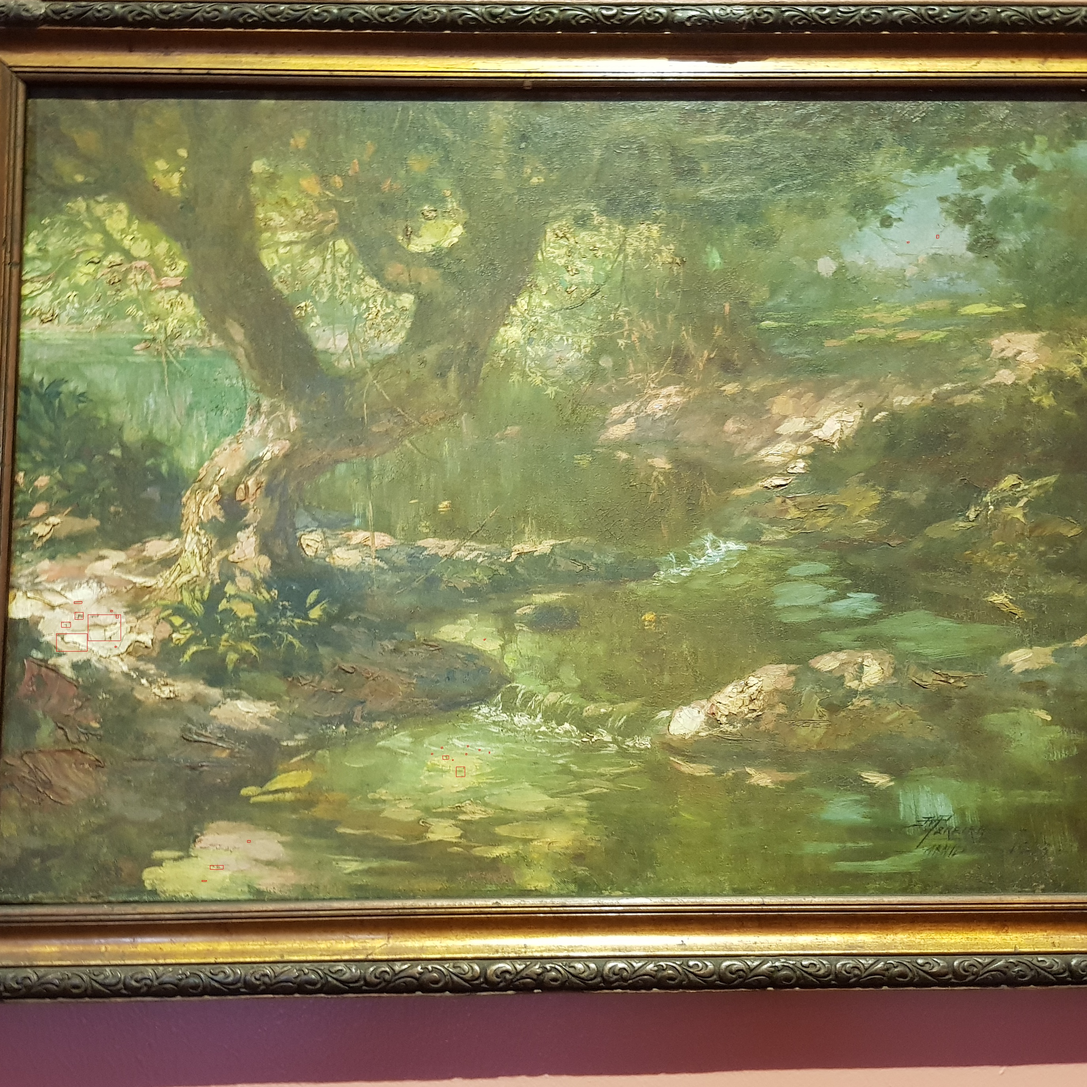
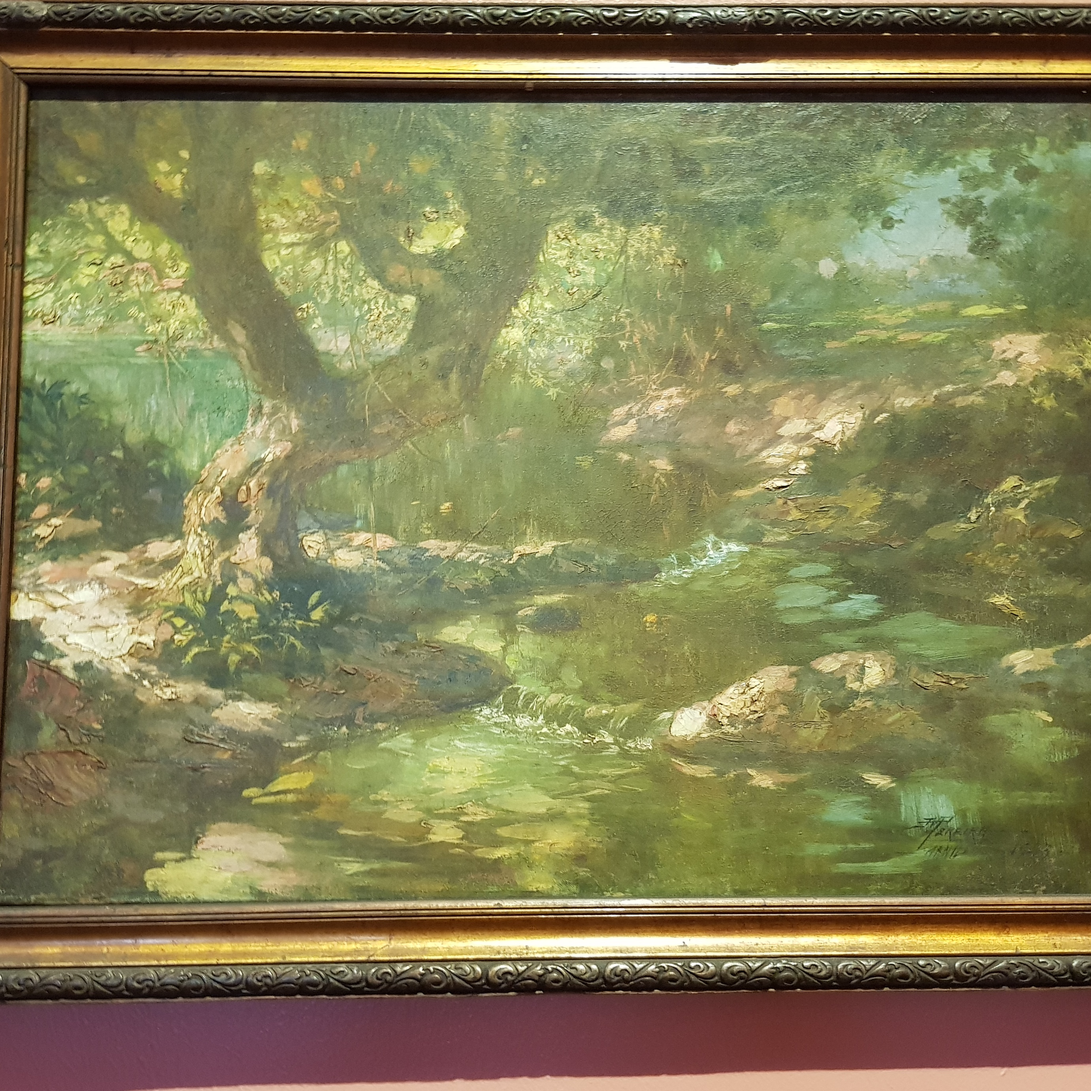
Seems to be working on vertical & horizontal pictures (painting crop), check for other instances

diff --git a/cropping.py b/cropping.py
@@ -26,30 +26,17 @@ def dilation(dilation_size, src):
 
 def cropImage(name):
 	image = cv2.imread(name, 0)
-	width, height = image.shape[:2]
-
+	w, h= image.shape
 	_, src = cv2.threshold(image, 170, 255, cv2.THRESH_BINARY_INV)
 	dilate = dilation(10,src)
-	erode = erosion(9,dilate)
+	cv2.imwrite("edges.jpg", dilate)
+
+	# erode = erosion(10,dilate)
 	colored = cv2.imread(name, 1)
 	untouched = cv2.imread(name, 1)
 
-	ret, labels, stats, centroids = cv2.connectedComponentsWithStats(erode, 8) 
-
-	i = 1
-	while(i<ret):
-		colored[stats[i][cv2.CC_STAT_TOP]:stats[i][cv2.CC_STAT_HEIGHT] + stats[i][cv2.CC_STAT_TOP],[stats[i][cv2.CC_STAT_LEFT]]] = [0,0,255] # left
-		colored[[stats[i][cv2.CC_STAT_TOP]], stats[i][cv2.CC_STAT_LEFT]:stats[i][cv2.CC_STAT_LEFT] + stats[i][cv2.CC_STAT_WIDTH]] = [0,0,255] # top
-		colored[stats[i][cv2.CC_STAT_TOP] + stats[i][cv2.CC_STAT_HEIGHT], stats[i][cv2.CC_STAT_LEFT] : stats[i][cv2.CC_STAT_LEFT] + stats[i][cv2.CC_STAT_WIDTH]] = [0,0,255]
-		colored[stats[i][cv2.CC_STAT_TOP] : stats[i][cv2.CC_STAT_TOP] + stats[i][cv2.CC_STAT_HEIGHT], stats[i][cv2.CC_STAT_LEFT] + stats[i][cv2.CC_STAT_WIDTH]] = [0,0,255]
-		i = i + 1
-
-#43 & 44 fuck up when pic is vertical
-	cv2.imshow("c", colored)
-	cv2.imshow("d", colored)
 	threshold = 180
-	edges = cv2.Canny(erode, threshold, 2*threshold, 3)
-	result, contours, hierarchy = cv2.findContours(edges, cv2.RETR_TREE, cv2.CHAIN_APPROX_NONE)
+	result, contours, hierarchy = cv2.findContours(dilate, cv2.RETR_TREE, cv2.CHAIN_APPROX_NONE)
 
 	maxArea = -1
 	for i in range(len(contours)):
@@ -57,14 +44,19 @@ def cropImage(name):
 			maxArea = cv2.contourArea(contours[i])
 			peri = cv2.arcLength(contours[i], True)
 			rect = cv2.approxPolyDP(contours[i], 0.0667 * peri, True)
-			if len(rect) == 4:
-				color = (255,255,255)
-				untouched = cv2.drawContours(untouched, [contours[i]], -1, color ,3)
+			color = (255,0,0)
+			untouched = cv2.drawContours(untouched, [contours[i]], -1, color ,3)
+	cv2.imwrite("colored.jpg", untouched)
 
 	coordinates = findCoordinates(rect)
 	cropped = colored[coordinates[0]:coordinates[1], coordinates[2]:coordinates[3]]
 	return cropped
 	
+def check(height, width, coords):
+	checked = coords
+	if(coords == height or coords == width):
+		checked = coords - 1
+	return checked
 def cropSquareImage(croppedPainting):
 	width, height = croppedPainting.shape[:2]
 	if(width>height): 
@@ -79,9 +71,6 @@ def cropSquareImage(croppedPainting):
 	width, height = square.shape[:2]
 
 	cv2.imwrite("square.jpg", square)
-	
-	#can be off by 1 px (the ratio)
-	#essentially current square = ... is assuming that the bigger is width, so need to be more dynamic to size
 
 painting = cropImage("try.jpg")
 cropSquareImage(painting)
@@ -90,3 +79,5 @@ cv2.imwrite(img_name,painting)
 
 cv2.waitKey(0)
 cv2.destroyAllWindows()
+
+
